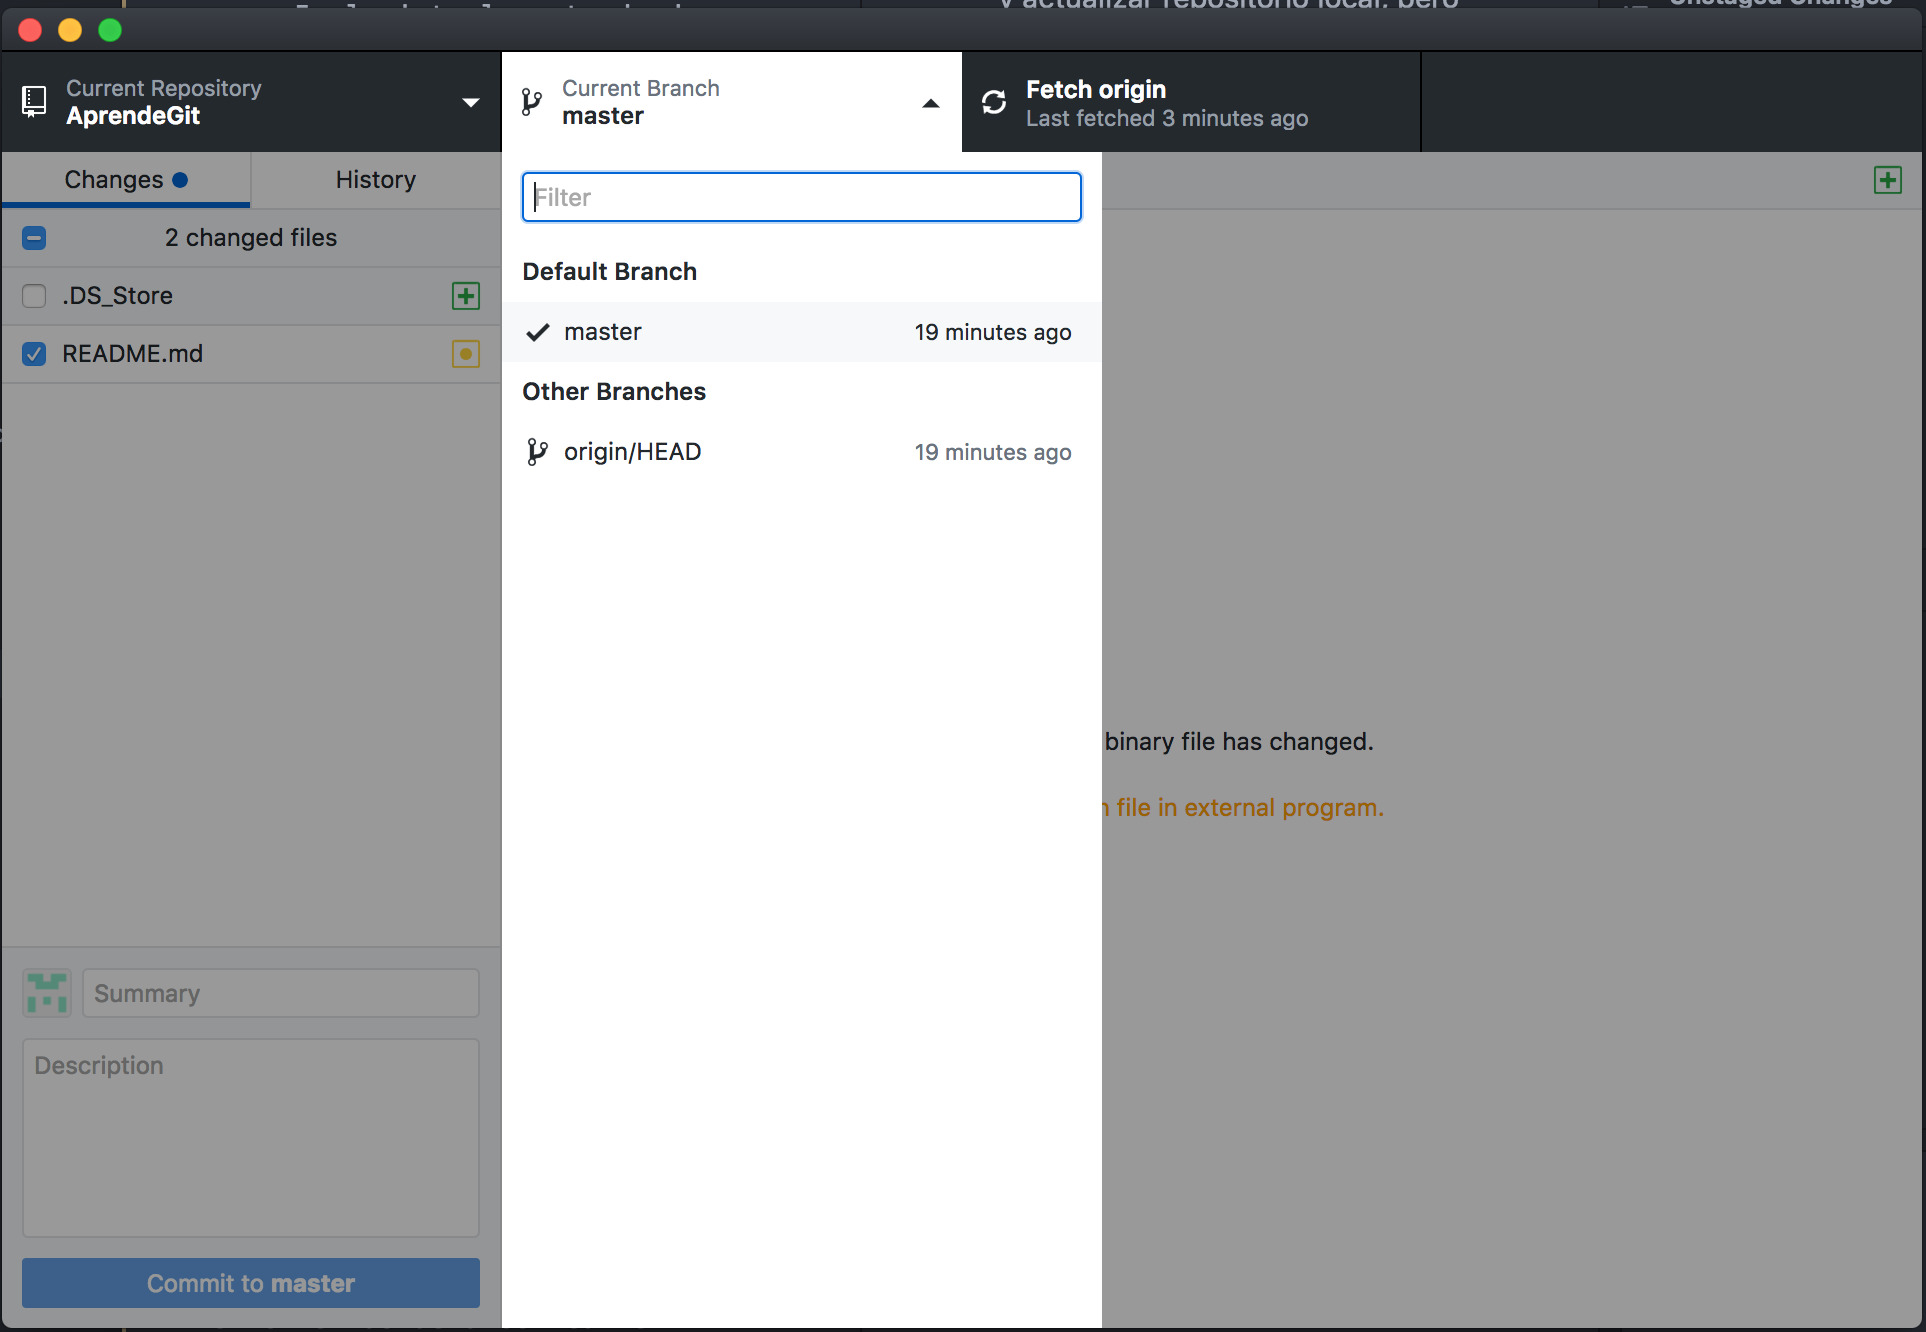
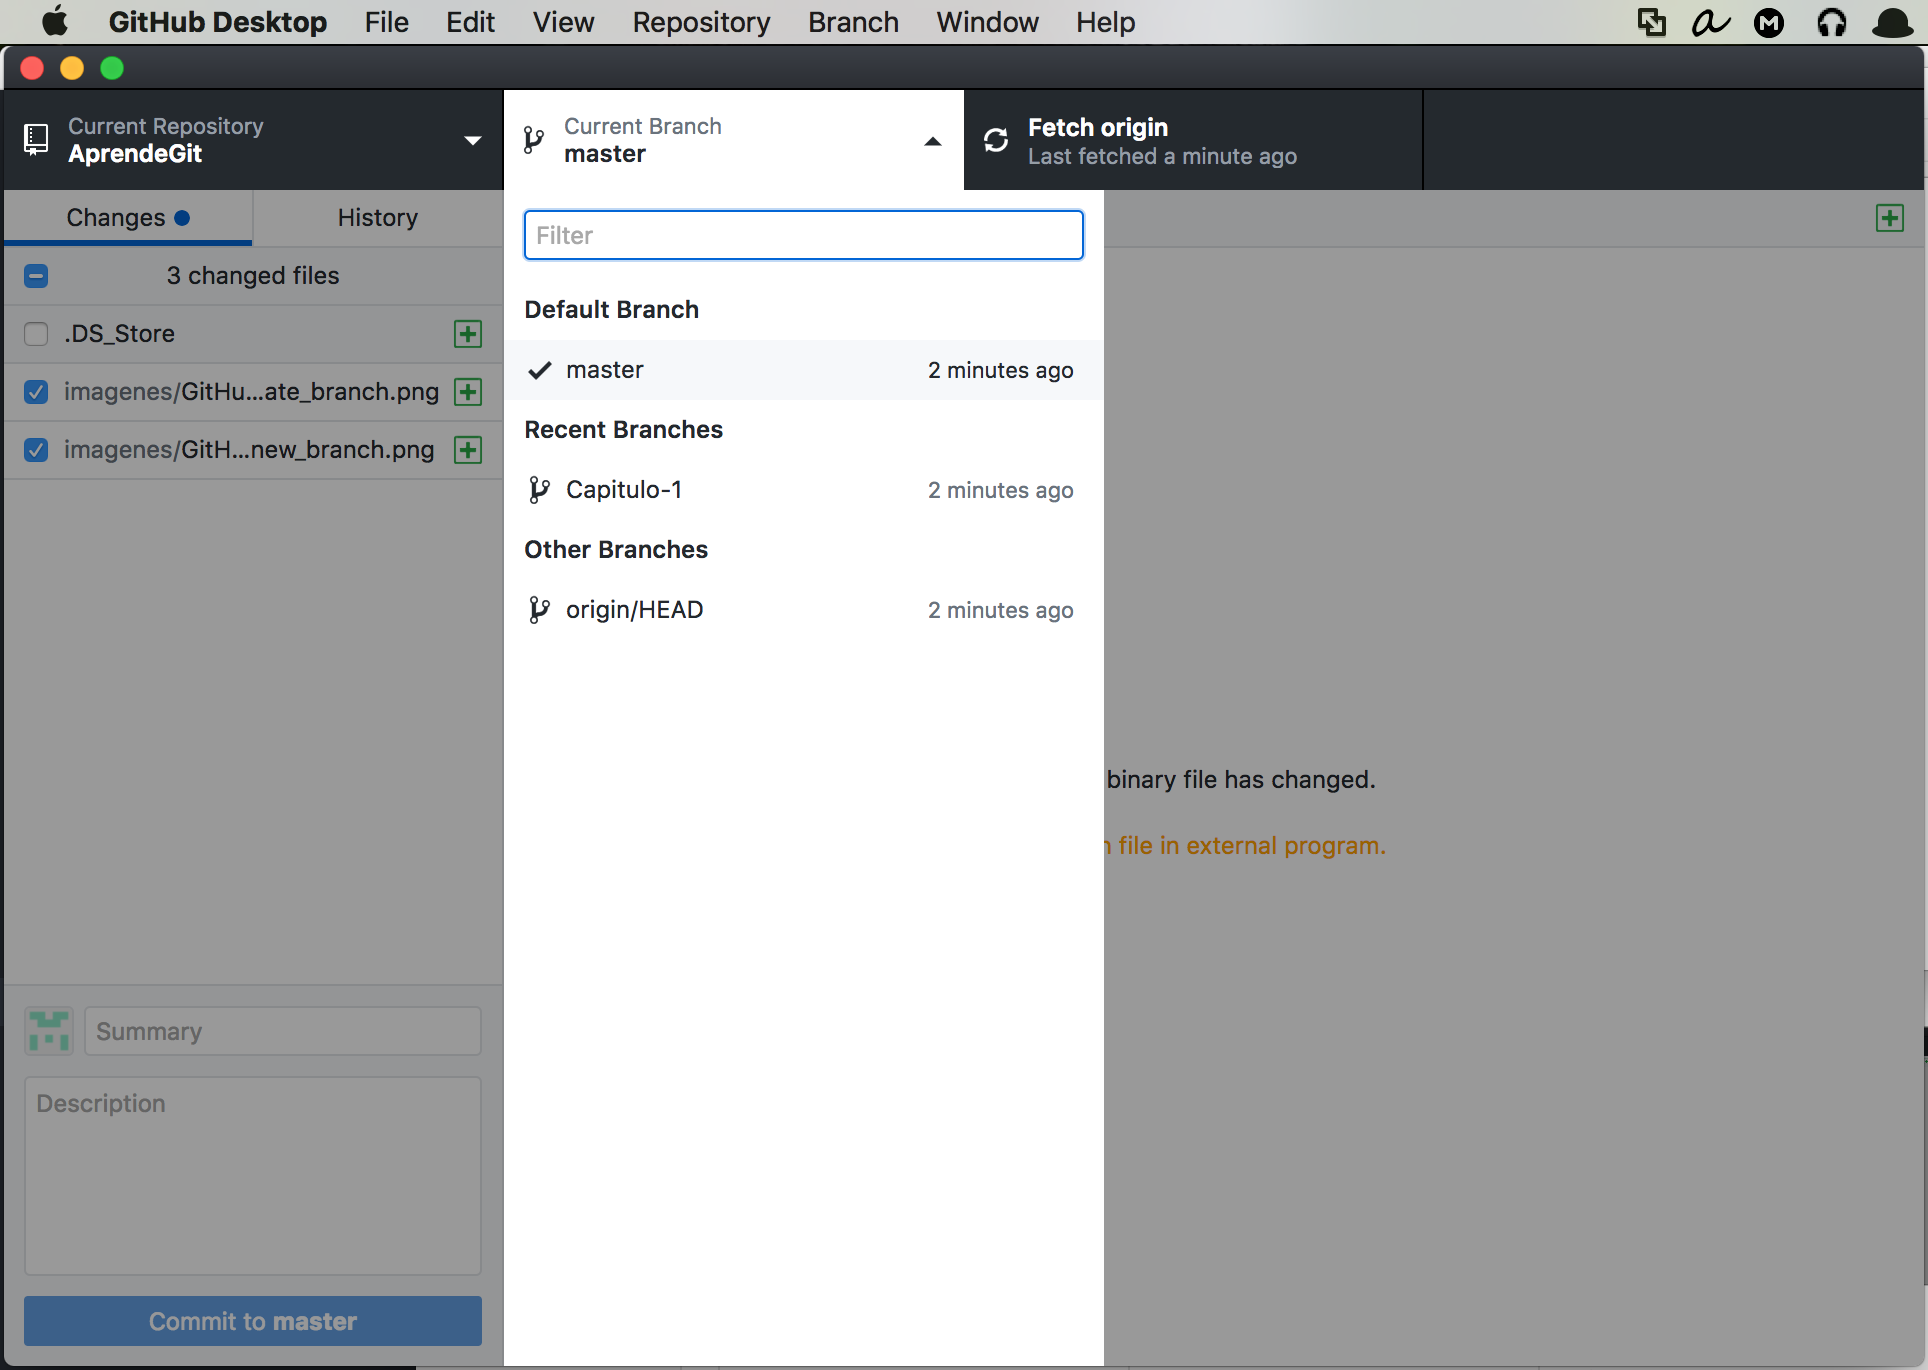
asdsad

diff --git a/README.md b/README.md
@@ -68,6 +68,8 @@ https://desktop.github.com)
 
 12. Revisa si existen otras ramas activas en el repositorio, dando click en donde dice "Current Branch".
 ![](imagenes/GitHub_desktop_branches.png)
+En la imagen se puede ver que existen dos ramas, "master" y "Capitulo-1" ("origin/HEAD" es la misma que "master").
+
 13. Crea una nueva rama para tus cambios. En GitHub desktop, en el menú de hasta arriba, da click en "Branch" -> "New Branch".
 
 11. En la parte superior izquierda, donde dice "Current Repository" puedes ver el repositorio de trabajo actual, y al dar click podrás elegir abrir otros repositorios que tengas en tu computadora.
